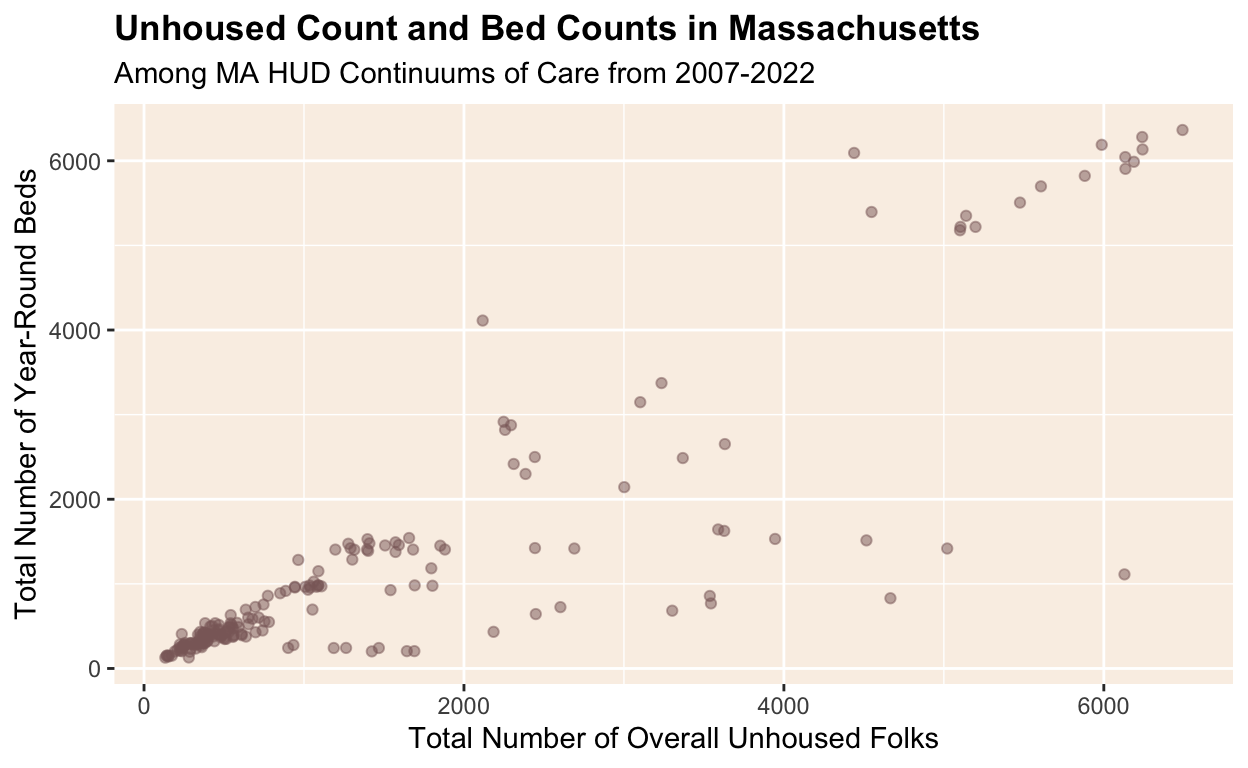
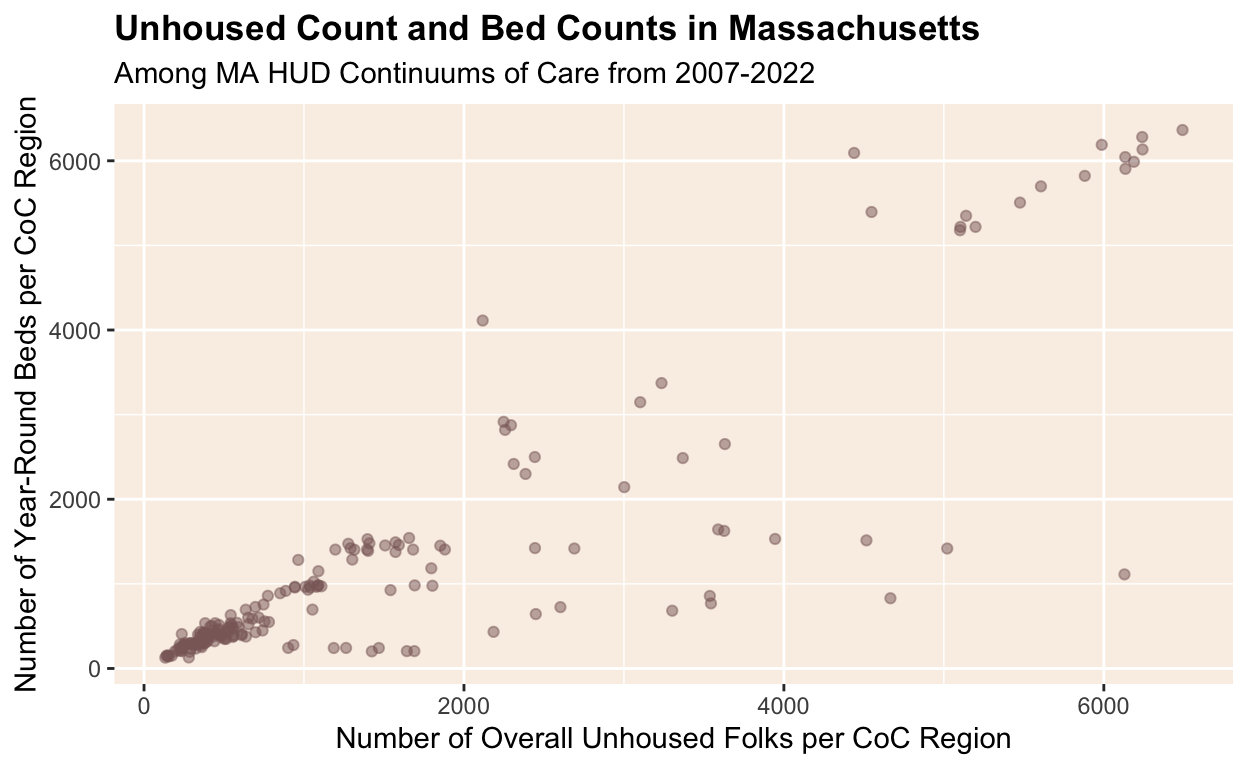
push changes to github for website

Changed region(s): [[0.25, 0.9375, 0.8125, 1.0], [0.0, 0.125, 0.0312, 0.9062]]

diff --git a/index.html b/index.html
@@ -115,7 +115,7 @@ code span.wa { color: #5e5e5e; font-style: italic; } /* Warning */
   <!--/radix_placeholder_rmarkdown_metadata-->
   
   <script type="text/json" id="radix-resource-manifest">
-  {"type":"character","attributes":{},"value":["index_files/anchor-4.2.2/anchor.min.js","index_files/bowser-1.9.3/bowser.min.js","index_files/distill-2.2.21/template.v2.js","index_files/figure-html5/boston_bed_type_trend-1.png","index_files/figure-html5/datavisualization-1.png","index_files/figure-html5/examine-shelterunhoused-relationship-1.png","index_files/figure-html5/examine-shelterunhoused-relationship-2.png","index_files/figure-html5/unsheltered-trend-1.png","index_files/header-attrs-2.17/header-attrs.js","index_files/header-attrs-2.25/header-attrs.js","index_files/jquery-3.6.0/jquery-3.6.0.js","index_files/jquery-3.6.0/jquery-3.6.0.min.js","index_files/jquery-3.6.0/jquery-3.6.0.min.map","index_files/popper-2.6.0/popper.min.js","index_files/tippy-6.2.7/tippy-bundle.umd.min.js","index_files/tippy-6.2.7/tippy-light-border.css","index_files/tippy-6.2.7/tippy.css","index_files/tippy-6.2.7/tippy.umd.min.js","index_files/webcomponents-2.0.0/webcomponents.js"]}
+  {"type":"character","attributes":{},"value":["index_files/anchor-4.2.2/anchor.min.js","index_files/bowser-1.9.3/bowser.min.js","index_files/distill-2.2.21/template.v2.js","index_files/figure-html5/boston_bed_type_trend-1.png","index_files/figure-html5/datavisualization-1.png","index_files/figure-html5/examine-shelterunhoused-relationship-1.png","index_files/figure-html5/examine-shelterunhoused-relationship-2.png","index_files/figure-html5/massachusetts_yr_bed_trend-1.png","index_files/figure-html5/unsheltered-trend-1.png","index_files/figure-html5/unsheltered-trend-milestone4-1.png","index_files/header-attrs-2.17/header-attrs.js","index_files/header-attrs-2.25/header-attrs.js","index_files/jquery-3.6.0/jquery-3.6.0.js","index_files/jquery-3.6.0/jquery-3.6.0.min.js","index_files/jquery-3.6.0/jquery-3.6.0.min.map","index_files/popper-2.6.0/popper.min.js","index_files/tippy-6.2.7/tippy-bundle.umd.min.js","index_files/tippy-6.2.7/tippy-light-border.css","index_files/tippy-6.2.7/tippy.css","index_files/tippy-6.2.7/tippy.umd.min.js","index_files/webcomponents-2.0.0/webcomponents.js"]}
   </script>
   <!--radix_placeholder_navigation_in_header-->
   <!--/radix_placeholder_navigation_in_header-->
@@ -1628,8 +1628,94 @@ code span.wa { color: #5e5e5e; font-style: italic; } /* Warning */
 <span>  <span class='op'>)</span></span>
 <span><span class='va'>PIT_count_over_time_visual</span></span></code></pre>
 </div>
+<p><img src="index_files/figure-html5/unsheltered-trend-milestone4-1.png" width="624" /></p>
+</div>
+<h2 id="final-project-exploring-homeless-shelters-responsiveness-to-bed-needs-in-massachusetts">Final Project: Exploring Homeless Shelters’ Responsiveness to Bed Needs in Massachusetts</h2>
+<h3 id="introduction">Introduction</h3>
+<p>It has been reported repeatedly that America’s homelessness and housing crises are on the rise, but how have homeless shelters changed as a result? Has shelter bed availability risen as well? In this study, I plan to examine how reported shelter bed availability in the United States has changed (or not) as the prevalence of homelessness has changed between the years of 2007 and 2022. Homelessness is incredibly stigmatized in this country and research has shown how discrimination against unhoused people has limited their political, economic, and social rights. A National Homelessness Law Center report found that between 2006 and 2019, city-wide bans on camping increased by more than 90%, and this is just one example of how homelessness is criminalized. Considering the abundance of anti-homelessness attitudes and legislation, I hypothesize that as the prevalence of homelessness has grown, especially in the past decade, shelter bed availability has not increased to the same extent. If I observe that the number of available shelter beds does not increase (remains similar or decreases) when the prevalence of homelessness increases, this would provide support for my hypothesis. If I observe that the number of available shelter beds increases as the prevalence of homelessness increases, this would provide support against my hypothesis.</p>
+<h3 id="data">Data</h3>
+<p>The data comes from a merging of two of the Department of Housing and Urban Development (HUD)’s datasets (1) Point in Time and (2) Housing in Time counts for Continuums of Care (CoC) between the years of 2007 and 2022. [CLARIFY point in time and housing in time]. As mentioned earlier, the CoC type is determined and defined by HUD. Through the HUD, different geographic areas in the United States are identified as a particular CoC, which is a regional group that coordinates housing and services funding for unhoused families and individuals as prescribed by the HUD CoC policies. There are different CoC categories, for example, “Largely Rural”, “Major City”, “Largely Suburban” etc. The CoC categories present in Massachusetts are “Major City”, “Largely Suburban”, and “Other Largely Urban.”</p>
+<p>The explanatory variable of interest is the proportion of the population that is considered to be homeless and the outcome variable is the number of available year-round shelter beds for that same year. These variables are self-reported by the CoCs through the HUD’s Homeless Management Information System. [EXPLAIN HOW THEY GET POINT IN TIME COUNTS and housing inventory counts]</p>
+<p>I will be exploring the relationship between the homeless population and available year-round shelter beds through observational data. [specify research design]</p>
+<h4 id="preparing-the-data">Preparing the data</h4>
+<div class="layout-chunk" data-layout="l-body">
+<div class="sourceCode">
+<pre class="sourceCode r"><code class="sourceCode r"><span><span class='kw'><a href='https://rdrr.io/r/base/library.html'>library</a></span><span class='op'>(</span><span class='va'><a href='https://tidyverse.tidyverse.org'>tidyverse</a></span><span class='op'>)</span></span>
+<span><span class='kw'><a href='https://rdrr.io/r/base/library.html'>library</a></span><span class='op'>(</span><span class='va'><a href='https://ggplot2.tidyverse.org'>ggplot2</a></span><span class='op'>)</span></span>
+<span><span class='kw'><a href='https://rdrr.io/r/base/library.html'>library</a></span><span class='op'>(</span><span class='st'><a href='https://readxl.tidyverse.org'>"readxl"</a></span><span class='op'>)</span></span>
+<span><span class='kw'><a href='https://rdrr.io/r/base/library.html'>library</a></span><span class='op'>(</span><span class='va'>RColorBrewer</span><span class='op'>)</span></span>
+<span></span>
+<span><span class='co'>#create dataframe for PIT Counts dataset</span></span>
+<span><span class='va'>PIT_count</span> <span class='op'>&lt;-</span> <span class='fu'><a href='https://readxl.tidyverse.org/reference/read_excel.html'>read_excel</a></span><span class='op'>(</span><span class='st'>"~/Downloads/2007-2022-PIT-Counts-by-CoC.xlsx"</span>, sheet <span class='op'>=</span> <span class='fl'>18</span><span class='op'>)</span></span>
+<span></span>
+<span><span class='co'>#create dataframe for HIC Counts dataset</span></span>
+<span><span class='va'>HIC_count</span> <span class='op'>&lt;-</span> <span class='fu'><a href='https://readxl.tidyverse.org/reference/read_excel.html'>read_excel</a></span><span class='op'>(</span><span class='st'>"~/Downloads/2007-2022-HIC-Counts-by-CoC.xlsx"</span>, sheet <span class='op'>=</span> <span class='fl'>17</span><span class='op'>)</span></span>
+<span></span>
+<span><span class='co'>#mutate PIT_count variable names (remove spaces)</span></span>
+<span><span class='va'>PIT_count</span> <span class='op'>&lt;-</span> <span class='va'>PIT_count</span> <span class='op'>|&gt;</span></span>
+<span>  <span class='fu'><a href='https://dplyr.tidyverse.org/reference/mutate.html'>mutate</a></span><span class='op'>(</span>year <span class='op'>=</span> <span class='va'>Year</span>,</span>
+<span>         coc_number <span class='op'>=</span> <span class='va'>`CoC Number`</span>,</span>
+<span>         overall_homeless <span class='op'>=</span> <span class='va'>`Overall Homeless`</span>,</span>
+<span>         sheltered_homeless <span class='op'>=</span> <span class='va'>`Sheltered Homeless`</span>,</span>
+<span>         unsheltered_homeless <span class='op'>=</span> <span class='va'>`Unsheltered Homeless`</span>,</span>
+<span>         sheltered_es_homeless <span class='op'>=</span> <span class='va'>`Sheltered ES Homeless`</span>,</span>
+<span>         sheltered_th_homeless <span class='op'>=</span> <span class='va'>`Sheltered TH Homeless`</span>,</span>
+<span>         `Sheltered SH Homeless` <span class='op'>=</span> <span class='va'>`Sheltered SH Homeless`</span>,</span>
+<span>         prop_sheltered_homeless <span class='op'>=</span> <span class='va'>`Sheltered Homeless`</span><span class='op'>/</span><span class='va'>`Overall Homeless`</span>,</span>
+<span>         prop_unsheltered_homeless <span class='op'>=</span> <span class='va'>`Unsheltered Homeless`</span><span class='op'>/</span><span class='va'>`Overall Homeless`</span><span class='op'>)</span></span>
+<span></span>
+<span><span class='co'>#mutate HIC_count variable names</span></span>
+<span><span class='va'>HIC_count</span> <span class='op'>&lt;-</span> <span class='va'>HIC_count</span> <span class='op'>|&gt;</span></span>
+<span>  <span class='fu'><a href='https://dplyr.tidyverse.org/reference/mutate.html'>mutate</a></span><span class='op'>(</span>year <span class='op'>=</span> <span class='va'>Year</span>,</span>
+<span>         coc_number <span class='op'>=</span> <span class='va'>`CoC Number`</span>,</span>
+<span>         total_yr_beds <span class='op'>=</span> <span class='va'>`Total Year-Round Beds (ES,TH)`</span>,</span>
+<span>         total_yr_es_beds <span class='op'>=</span> <span class='va'>`Total Year-Round Beds (ES)`</span><span class='op'>)</span></span></code></pre>
+</div>
+</div>
+<h3 id="visualizing-homeless-count-and-year-round-bed-count">Visualizing Homeless Count and Year-Round Bed Count</h3>
+<div class="layout-chunk" data-layout="l-body">
+<div class="sourceCode">
+<pre class="sourceCode r"><code class="sourceCode r"><span><span class='co'>#visualize over unsheltered trend over time</span></span>
+<span><span class='va'>PIT_count_over_time</span> <span class='op'>&lt;-</span> <span class='va'>PIT_count</span> <span class='op'>|&gt;</span></span>
+<span>  <span class='fu'><a href='https://dplyr.tidyverse.org/reference/group_by.html'>group_by</a></span><span class='op'>(</span><span class='va'>year</span><span class='op'>)</span> <span class='op'>|&gt;</span></span>
+<span>  <span class='fu'><a href='https://dplyr.tidyverse.org/reference/summarise.html'>summarize</a></span><span class='op'>(</span>state_sheltered_prop <span class='op'>=</span> <span class='fu'><a href='https://rdrr.io/r/base/sum.html'>sum</a></span><span class='op'>(</span><span class='va'>sheltered_homeless</span><span class='op'>)</span><span class='op'>/</span><span class='fu'><a href='https://rdrr.io/r/base/sum.html'>sum</a></span><span class='op'>(</span><span class='va'>overall_homeless</span><span class='op'>)</span><span class='op'>*</span><span class='fl'>100</span>,</span>
+<span>            state_unsheltered_prop <span class='op'>=</span> <span class='fu'><a href='https://rdrr.io/r/base/sum.html'>sum</a></span><span class='op'>(</span><span class='va'>unsheltered_homeless</span><span class='op'>)</span><span class='op'>/</span><span class='fu'><a href='https://rdrr.io/r/base/sum.html'>sum</a></span><span class='op'>(</span><span class='va'>overall_homeless</span><span class='op'>)</span><span class='op'>*</span><span class='fl'>100</span><span class='op'>)</span></span>
+<span><span class='va'>PIT_count_over_time_visual</span> <span class='op'>&lt;-</span><span class='fu'><a href='https://ggplot2.tidyverse.org/reference/ggplot.html'>ggplot</a></span><span class='op'>(</span>data <span class='op'>=</span> <span class='va'>PIT_count_over_time</span>,</span>
+<span>       mapping <span class='op'>=</span> <span class='fu'><a href='https://ggplot2.tidyverse.org/reference/aes.html'>aes</a></span><span class='op'>(</span>x <span class='op'>=</span> <span class='fu'><a href='https://rdrr.io/r/base/factor.html'>factor</a></span><span class='op'>(</span><span class='va'>year</span><span class='op'>)</span>,</span>
+<span>                     y <span class='op'>=</span> <span class='va'>state_unsheltered_prop</span><span class='op'>)</span><span class='op'>)</span> <span class='op'>+</span></span>
+<span>  <span class='fu'><a href='https://ggplot2.tidyverse.org/reference/geom_bar.html'>geom_col</a></span><span class='op'>(</span>stat<span class='op'>=</span><span class='st'>"identity"</span>, fill<span class='op'>=</span><span class='st'>"steelblue4"</span><span class='op'>)</span> <span class='op'>+</span></span>
+<span>  <span class='fu'><a href='https://ggplot2.tidyverse.org/reference/scale_discrete.html'>scale_x_discrete</a></span><span class='op'>(</span>breaks <span class='op'>=</span> <span class='fu'><a href='https://rdrr.io/r/base/seq.html'>seq</a></span><span class='op'>(</span><span class='fl'>2006</span>,<span class='fl'>2023</span>, <span class='fl'>1</span><span class='op'>)</span><span class='op'>)</span> <span class='op'>+</span></span>
+<span>  <span class='fu'><a href='https://ggplot2.tidyverse.org/reference/theme.html'>theme</a></span><span class='op'>(</span>panel.background <span class='op'>=</span> <span class='fu'><a href='https://ggplot2.tidyverse.org/reference/element.html'>element_rect</a></span><span class='op'>(</span>fill <span class='op'>=</span> <span class='st'>'linen'</span><span class='op'>)</span>,</span>
+<span>        panel.grid.major <span class='op'>=</span> <span class='fu'><a href='https://ggplot2.tidyverse.org/reference/element.html'>element_line</a></span><span class='op'>(</span>color <span class='op'>=</span> <span class='st'>'linen'</span><span class='op'>)</span>,</span>
+<span>        plot.title <span class='op'>=</span> <span class='fu'><a href='https://ggplot2.tidyverse.org/reference/element.html'>element_text</a></span><span class='op'>(</span>face<span class='op'>=</span><span class='st'>"bold"</span><span class='op'>)</span><span class='op'>)</span> <span class='op'>+</span> </span>
+<span>  <span class='fu'><a href='https://ggplot2.tidyverse.org/reference/labs.html'>labs</a></span><span class='op'>(</span></span>
+<span>    x <span class='op'>=</span> <span class='st'>"Year"</span>,</span>
+<span>    y <span class='op'>=</span> <span class='st'>"Percent of Unhoused that are Unsheltered (%)"</span>,</span>
+<span>    title <span class='op'>=</span> <span class='st'>"Percent of Unhoused Folks that are Unsheltered in Massachusetts"</span>,</span>
+<span>    subtitle <span class='op'>=</span> <span class='st'>"Among MA HUD Continuums of Care from 2007-2022"</span>,</span>
+<span>    source <span class='op'>=</span> <span class='st'>"HUD Housing Inventory Count"</span></span>
+<span>  <span class='op'>)</span></span>
+<span><span class='va'>PIT_count_over_time_visual</span></span></code></pre>
+</div>
 <p><img src="index_files/figure-html5/unsheltered-trend-1.png" width="624" /></p>
 </div>
+<p>In this chart, we see that the percent of unhoused folks that are unsheltered has varied over time. Though it appeared to be decreasing since 2007, there’s been a noticeable increase since the onset of the Covid-19 pandemic in the US in 2020. This variability motivates the question of whether shelter bed availability is responsive to need, based on the prevalence of homelessness.</p>
+<p>[insert bar plot of the number of beds total in MA over time]</p>
+<div class="layout-chunk" data-layout="l-body">
+<div class="sourceCode">
+<pre class="sourceCode r"><code class="sourceCode r"><span><span class='co'>#visualize Massachusetts CoC year-round beds</span></span>
+<span><span class='va'>HIC_yr_visual</span> <span class='op'>&lt;-</span> <span class='fu'><a href='https://ggplot2.tidyverse.org/reference/ggplot.html'>ggplot</a></span><span class='op'>(</span>data <span class='op'>=</span> <span class='va'>HIC_count</span>,</span>
+<span>       mapping <span class='op'>=</span> <span class='fu'><a href='https://ggplot2.tidyverse.org/reference/aes.html'>aes</a></span><span class='op'>(</span>x <span class='op'>=</span> <span class='fu'><a href='https://rdrr.io/r/base/factor.html'>factor</a></span><span class='op'>(</span><span class='va'>year</span><span class='op'>)</span>,</span>
+<span>                     y <span class='op'>=</span> <span class='va'>total_yr_beds</span><span class='op'>)</span><span class='op'>)</span> <span class='op'>+</span></span>
+<span>  <span class='fu'><a href='https://ggplot2.tidyverse.org/reference/geom_bar.html'>geom_col</a></span><span class='op'>(</span>fill<span class='op'>=</span><span class='st'>"steelblue4"</span><span class='op'>)</span> <span class='op'>+</span></span>
+<span>  <span class='fu'><a href='https://ggplot2.tidyverse.org/reference/lims.html'>ylim</a></span><span class='op'>(</span><span class='fl'>0</span>,<span class='fl'>20000</span><span class='op'>)</span> <span class='op'>+</span></span>
+<span>  <span class='fu'><a href='https://ggplot2.tidyverse.org/reference/scale_discrete.html'>scale_x_discrete</a></span><span class='op'>(</span>breaks <span class='op'>=</span> <span class='fu'><a href='https://rdrr.io/r/base/seq.html'>seq</a></span><span class='op'>(</span><span class='fl'>2006</span>,<span class='fl'>2023</span>, <span class='fl'>1</span><span class='op'>)</span><span class='op'>)</span> </span>
+<span><span class='va'>HIC_yr_visual</span> </span></code></pre>
+</div>
+<p><img src="index_files/figure-html5/massachusetts_yr_bed_trend-1.png" width="624" /></p>
+</div>
+<p>[make some observation about the plot]</p>
+<h2 id="results">Results</h2>
 <div class="layout-chunk" data-layout="l-body">
 <div class="sourceCode">
 <pre class="sourceCode r"><code class="sourceCode r"><span><span class='co'>#create merged dataframe for PIT and HIC datasets by matching CoC</span></span>
@@ -1645,8 +1731,8 @@ code span.wa { color: #5e5e5e; font-style: italic; } /* Warning */
 <span>  <span class='fu'><a href='https://ggplot2.tidyverse.org/reference/theme.html'>theme</a></span><span class='op'>(</span>panel.background <span class='op'>=</span> <span class='fu'><a href='https://ggplot2.tidyverse.org/reference/element.html'>element_rect</a></span><span class='op'>(</span>fill <span class='op'>=</span> <span class='st'>'linen'</span><span class='op'>)</span>,</span>
 <span>        plot.title <span class='op'>=</span> <span class='fu'><a href='https://ggplot2.tidyverse.org/reference/element.html'>element_text</a></span><span class='op'>(</span>face<span class='op'>=</span><span class='st'>"bold"</span><span class='op'>)</span><span class='op'>)</span> <span class='op'>+</span> </span>
 <span>  <span class='fu'><a href='https://ggplot2.tidyverse.org/reference/labs.html'>labs</a></span><span class='op'>(</span></span>
-<span>    x <span class='op'>=</span> <span class='st'>"Total Number of Overall Unhoused Folks"</span>,</span>
-<span>    y <span class='op'>=</span> <span class='st'>"Total Number of Year-Round Beds"</span>,</span>
+<span>    x <span class='op'>=</span> <span class='st'>"Number of Overall Unhoused Folks per CoC Region"</span>,</span>
+<span>    y <span class='op'>=</span> <span class='st'>"Number of Year-Round Beds per CoC Region"</span>,</span>
 <span>    title <span class='op'>=</span> <span class='st'>"Unhoused Count and Bed Counts in Massachusetts"</span>,</span>
 <span>    subtitle <span class='op'>=</span> <span class='st'>"Among MA HUD Continuums of Care from 2007-2022"</span>,</span>
 <span>    source <span class='op'>=</span> <span class='st'>"HUD Housing Inventory Count"</span></span>
@@ -1661,9 +1747,9 @@ code span.wa { color: #5e5e5e; font-style: italic; } /* Warning */
 <span>  <span class='fu'><a href='https://ggplot2.tidyverse.org/reference/theme.html'>theme</a></span><span class='op'>(</span>panel.background <span class='op'>=</span> <span class='fu'><a href='https://ggplot2.tidyverse.org/reference/element.html'>element_rect</a></span><span class='op'>(</span>fill <span class='op'>=</span> <span class='st'>'linen'</span><span class='op'>)</span>,</span>
 <span>        plot.title <span class='op'>=</span> <span class='fu'><a href='https://ggplot2.tidyverse.org/reference/element.html'>element_text</a></span><span class='op'>(</span>face<span class='op'>=</span><span class='st'>"bold"</span><span class='op'>)</span><span class='op'>)</span> <span class='op'>+</span> </span>
 <span>  <span class='fu'><a href='https://ggplot2.tidyverse.org/reference/labs.html'>labs</a></span><span class='op'>(</span></span>
-<span>    x <span class='op'>=</span> <span class='st'>"Total Number of Overall Unhoused Folks"</span>,</span>
-<span>    y <span class='op'>=</span> <span class='st'>"Total Number of Year-Round Beds"</span>,</span>
-<span>    title <span class='op'>=</span> <span class='st'>"Unhoused Count and Bed Counts in Massachusetts"</span>,</span>
+<span>    x <span class='op'>=</span> <span class='st'>"Number of Overall Unhoused Folks per CoC Region"</span>,</span>
+<span>    y <span class='op'>=</span> <span class='st'>"Number of Year-Round Beds per CoC Region"</span>,</span>
+<span>    title <span class='op'>=</span> <span class='st'>"Unhoused Count and Bed Counts in Massachusetts with Line of Best Fit"</span>,</span>
 <span>    subtitle <span class='op'>=</span> <span class='st'>"Among MA HUD Continuums of Care from 2007-2022"</span>,</span>
 <span>    source <span class='op'>=</span> <span class='st'>"HUD Housing Inventory Count"</span></span>
 <span>    <span class='op'>)</span> <span class='op'>+</span></span>
@@ -1684,6 +1770,9 @@ Coefficients:
      (Intercept)  overall_homeless  
         -10.5031            0.8261  </code></pre>
 </div>
+<p>The first visualization is a scatterplot of CoC regions in Massachusetts with their corresponding number of unhoused folks and number of year-round shelter beds for each year from 2007 to 2022. There appears to be a positive association between the number of overall unhoused folks in a CoC region and the number of beds in that same region.</p>
+<p>The second visualization shows the same scatterplot with a line of best fit. The positive association depicted by the line of best fit indicates that a higher number of unhoused folks in a CoC region corresponds to a higher number of year-round beds in that region. [DESCRIBE linear REGRESSION RESULTS]</p>
+<p>[ADD MODEL SUMMARY]</p>
 <div class="layout-chunk" data-layout="l-body">
 <div class="sourceCode">
 <pre class="sourceCode r"><code class="sourceCode r"><span><span class='co'>#add coc_category </span></span>
@@ -1724,29 +1813,8 @@ Coefficients:
 coc_categoryOther Largely Urban CoC  
                          -1.307e+02  </code></pre>
 </div>
-<div class="layout-chunk" data-layout="l-body">
-<div class="sourceCode">
-<pre class="sourceCode r"><code class="sourceCode r"><span><span class='co'>#mutate variables to remove spaces</span></span>
-<span><span class='va'>HIC_count</span> <span class='op'>&lt;-</span> <span class='va'>HIC_count</span> <span class='op'>|&gt;</span></span>
-<span>  <span class='fu'><a href='https://dplyr.tidyverse.org/reference/mutate.html'>mutate</a></span><span class='op'>(</span>year <span class='op'>=</span> <span class='va'>Year</span>,</span>
-<span>         coc_number <span class='op'>=</span> <span class='va'>`CoC Number`</span>,</span>
-<span>         total_yr_beds <span class='op'>=</span> <span class='va'>`Total Year-Round Beds (ES,TH)`</span>,</span>
-<span>         total_yr_es_beds <span class='op'>=</span> <span class='va'>`Total Year-Round Beds (ES)`</span><span class='op'>)</span></span>
-<span></span>
-<span><span class='co'>#subset for Boston CoC</span></span>
-<span><span class='va'>HIC_boston_yr</span> <span class='op'>&lt;-</span> <span class='va'>HIC_count</span> <span class='op'>|&gt;</span></span>
-<span>  <span class='fu'><a href='https://dplyr.tidyverse.org/reference/filter.html'>filter</a></span><span class='op'>(</span><span class='va'>coc_number</span> <span class='op'>==</span> <span class='st'>"MA-500"</span><span class='op'>)</span></span>
-<span></span>
-<span><span class='co'>#visualize Boston CoC year-round beds</span></span>
-<span><span class='va'>HIC_boston_yr_visual</span> <span class='op'>&lt;-</span> <span class='fu'><a href='https://ggplot2.tidyverse.org/reference/ggplot.html'>ggplot</a></span><span class='op'>(</span>data <span class='op'>=</span> <span class='va'>HIC_boston_yr</span>,</span>
-<span>       mapping <span class='op'>=</span> <span class='fu'><a href='https://ggplot2.tidyverse.org/reference/aes.html'>aes</a></span><span class='op'>(</span>x <span class='op'>=</span> <span class='fu'><a href='https://rdrr.io/r/base/factor.html'>factor</a></span><span class='op'>(</span><span class='va'>year</span><span class='op'>)</span>,</span>
-<span>                     y <span class='op'>=</span> <span class='va'>total_yr_beds</span><span class='op'>)</span><span class='op'>)</span> <span class='op'>+</span></span>
-<span>  <span class='fu'><a href='https://ggplot2.tidyverse.org/reference/geom_bar.html'>geom_col</a></span><span class='op'>(</span>fill<span class='op'>=</span><span class='st'>"steelblue4"</span><span class='op'>)</span> <span class='op'>+</span></span>
-<span>  <span class='fu'><a href='https://ggplot2.tidyverse.org/reference/scale_discrete.html'>scale_x_discrete</a></span><span class='op'>(</span>breaks <span class='op'>=</span> <span class='fu'><a href='https://rdrr.io/r/base/seq.html'>seq</a></span><span class='op'>(</span><span class='fl'>2006</span>,<span class='fl'>2023</span>, <span class='fl'>1</span><span class='op'>)</span><span class='op'>)</span> </span>
-<span><span class='va'>HIC_boston_yr_visual</span> </span></code></pre>
-</div>
-<p><img src="index_files/figure-html5/boston_bed_type_trend-1.png" width="624" /></p>
-</div>
+<p>[DESCRIBE MULTIPLE REGRESSION RESULTS]</p>
+<p>[ADD MODEL SUMMARY]</p>
 <div class="sourceCode" id="cb4"><pre class="sourceCode r distill-force-highlighting-css"><code class="sourceCode r"></code></pre></div>
 <!--radix_placeholder_article_footer-->
 <!--/radix_placeholder_article_footer-->
